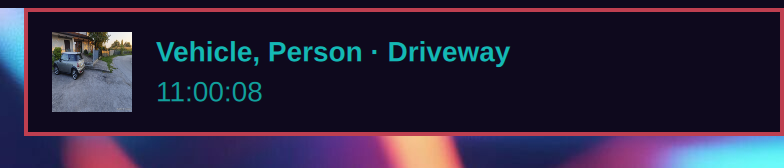
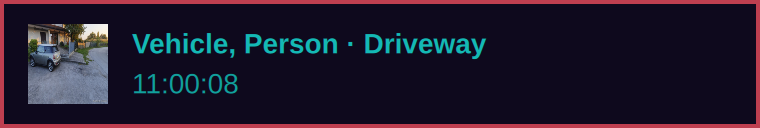
README: centred header with tower crest, sized screenshots

diff --git a/README.md b/README.md
@@ -1,8 +1,16 @@
-# Sauron
+<p align="center">
+  <img src="docs/icon.svg" width="96" alt="">
+</p>
 
-An eye in your [Omarchy](https://omarchy.org) bar that watches your UniFi Protect cameras.
+<h1 align="center">Sauron</h1>
 
-![The Sauron panel: detection filters, silence controls, a live grid of camera snapshots with an active detection, and recent sightings](docs/panel.png)
+<p align="center">
+  An eye in your <a href="https://omarchy.org">Omarchy</a> bar that watches your UniFi Protect cameras.
+</p>
+
+<p align="center">
+  <img src="docs/panel.png" width="560" alt="The Sauron panel: detection filters, silence controls, a live grid of camera snapshots with an active detection, and recent sightings">
+</p>
 
 Sauron puts Barad-dûr in your status bar. When a camera sees something you care about (a person, a vehicle, a package, the doorbell), the Eye burns, a notification pops up with a snapshot, and one click opens the camera's live feed.
 
@@ -77,7 +85,9 @@ Then enter its username and password in `sauron setup`. The password is stored i
 | | `r` | Reconnect to Protect |
 | | Esc | Close |
 
-![Eye states: watching, a detection in progress, silenced, and not connected](docs/eye-states.png)
+<p align="center">
+  <img src="docs/eye-states.png" width="600" alt="Eye states: watching, a detection in progress, silenced, and not connected">
+</p>
 
 | Eye | Meaning |
 |---|---|
@@ -89,7 +99,9 @@ Then enter its username and password in `sauron setup`. The password is stored i
 
 ### Notifications
 
-![A detection notification with a camera snapshot](docs/notification.png)
+<p align="center">
+  <img src="docs/notification.png" width="420" alt="A detection notification with a camera snapshot">
+</p>
 
 A notification appears as soon as Protect reports a detection you've chosen, and gains a snapshot a moment later. Click it to open that camera live.
 
@@ -98,7 +110,9 @@ A notification appears as soon as Protect reports a detection you've chosen, and
 
 ### Live video
 
-![A live camera feed in mpv](docs/live.jpg)
+<p align="center">
+  <img src="docs/live.jpg" width="640" alt="A live camera feed in mpv">
+</p>
 
 Live feeds open in `mpv`, one window per camera. Opening a camera that's already open brings its window to the front.
 
